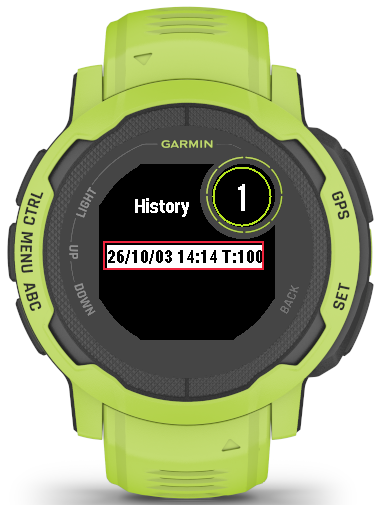
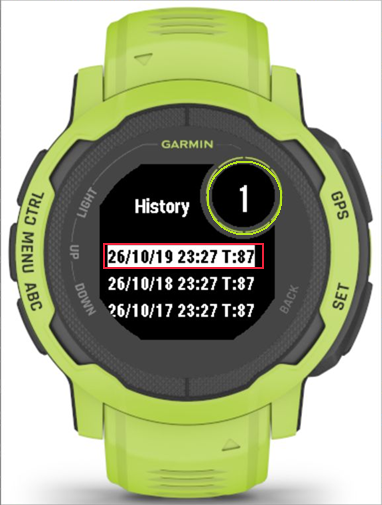
Update Sauna Timer 0.6.2 guide and clarify FIT Save defaults

diff --git a/sauna-timer/index.html b/sauna-timer/index.html
@@ -77,8 +77,12 @@
                 <dd>セッション終了時に、完了したすべてのセットのスコアをまとめて確認できます。</dd>
               </div>
               <div>
-                <dt><span translate="no">Garmin Connect</span>へのログ送信</dt>
-                <dd><span translate="no">FIT Save</span>をONにすると、計測したログを<span translate="no">Garmin Connect</span>へ送信できます。</dd>
+                <dt>履歴からセットの詳細を確認</dt>
+                <dd><span translate="no">v0.6.2</span>では、保存した履歴から各セットのスコアと、サウナ・水風呂・休憩の最大／最小心拍数を確認できます。<br>操作方法は「<a href="#history" translate="no">History</a>」をご覧ください。</dd>
+              </div>
+              <div>
+                <dt>アプリ内に履歴を保存</dt>
+                <dd>セッション終了時に記録を保存し、過去10件の履歴をウォッチ上で確認できます。</dd>
               </div>
             </dl>
 
@@ -143,7 +147,7 @@
           <section class="content-section" id="how-to-use">
             <h2>使い方</h2>
             <p><span translate="no">Garmin</span>ウォッチの物理ボタンを使って操作します。<br>はじめにボタンの呼び方を確認し、その後、各画面の説明に沿って操作してください。</p>
-            <p class="guide-note">画像は<span translate="no">Sauna Timer 0.6.1</span>を<span translate="no">Instinct 2</span>のシミュレーターで撮影したものです。<br>色付きの枠は説明用に追加しています。<br>心拍数、スコア、日時はサンプルです。<br>各画像の下に、色付きラベルで枠の意味を記載しています。</p>
+            <p class="guide-note">History・セット終了時・セット別Resultの画像は<span translate="no">Sauna Timer 0.6.2</span>、その他の画像は<span translate="no">Sauna Timer 0.6.1</span>を<span translate="no">Instinct 2</span>のシミュレーターで撮影したものです。<br>色付きの枠は説明用に追加しています。<br>心拍数、スコア、日時はサンプルです。<br>各画像の下に、色付きラベルで枠の意味を記載しています。</p>
 
             <nav class="guide-index" aria-label="使い方の目次">
               <a href="#buttons">ボタン</a>
@@ -530,7 +534,7 @@
                     </div>
                     <div>
                       <dt translate="no">FIT Save</dt>
-                      <dd>セッションを<span translate="no">FIT</span>形式のアクティビティとして保存します。初期状態はOFFです。</dd>
+                      <dd>セッションを<span translate="no">FIT</span>形式のアクティビティとして保存します。初期値はOFFです。<br>保存する場合は、セッション開始前にONへ変更してください。</dd>
                       <dd class="guide-note">
                         <p><span translate="no">FIT Save</span>は、タイマーを開始する前にだけ変更できます。<br>タイマーを開始した後は設定を変更できません。</p>
                       </dd>
@@ -542,7 +546,8 @@
 
             <section class="guide-section" id="history">
               <h3 translate="no">History</h3>
-              <div class="guide-images guide-images-three">
+              <p class="guide-note">操作説明と画像は<span translate="no">v0.6.2</span>の内容です。<br>心拍数、スコア、日時は撮影用のサンプルです。</p>
+              <div class="guide-images guide-images-two">
                 <div class="sauna-timer-screen-media">
                   <figure class="screen-figure">
                     <img src="../assets/images/History.png" alt="保存済みセッションを表示したHistory一覧画面" width="382" height="505" loading="lazy">
@@ -551,31 +556,56 @@
                   <h4>画面に表示される情報</h4>
                   <ul class="display-legend">
                     <li><span class="sauna-timer-guide-label sauna-timer-guide-label-red">赤枠</span>選択中の履歴</li>
-                    <li><span class="sauna-timer-guide-label sauna-timer-guide-label-lime">黄緑の丸</span>保存件数</li>
+                    <li><span class="sauna-timer-guide-label sauna-timer-guide-label-lime">黄緑の丸</span>選択中の履歴番号</li>
                   </ul>
                 </div>
                 <div class="sauna-timer-screen-media">
                   <figure class="screen-figure">
-                    <img src="../assets/images/history1.png" alt="開始日時、TotonoiScore、セット数を表示した履歴詳細画面" width="382" height="505" loading="lazy">
-                    <figcaption>History詳細</figcaption>
+                    <img src="../assets/images/history1.png" alt="全体のスコアとフェーズ別の最大・最小心拍数の平均を表示した履歴概要画面" width="382" height="505" loading="lazy">
+                    <figcaption>History概要</figcaption>
                   </figure>
                   <h4>画面に表示される情報</h4>
                   <ul class="display-legend">
                     <li><span class="sauna-timer-guide-label sauna-timer-guide-label-blue">青枠</span>開始日時</li>
-                    <li><span class="sauna-timer-guide-label sauna-timer-guide-label-red">赤枠</span>スコア</li>
-                    <li><span class="sauna-timer-guide-label sauna-timer-guide-label-green">緑枠</span>セット数</li>
+                    <li><span class="sauna-timer-guide-label sauna-timer-guide-label-red">赤枠</span>全体のスコア</li>
+                    <li><span class="sauna-timer-guide-label sauna-timer-guide-label-green">緑枠</span>各フェーズの最大心拍数の平均／最小心拍数の平均</li>
+                    <li><span class="sauna-timer-guide-label sauna-timer-guide-label-yellow">黄色枠</span>セット数とページ番号</li>
+                  </ul>
+                </div>
+                <div class="sauna-timer-screen-media">
+                  <figure class="screen-figure">
+                    <img src="../assets/images/HistoryScore.png" alt="セット1のスコアとEnter to Detailを表示した画面" width="382" height="505" loading="lazy">
+                    <figcaption>セット別スコア</figcaption>
+                  </figure>
+                  <h4>画面に表示される情報</h4>
+                  <ul class="display-legend">
+                    <li><span class="sauna-timer-guide-label sauna-timer-guide-label-lime">黄緑の丸</span>セット番号</li>
+                    <li><span class="sauna-timer-guide-label sauna-timer-guide-label-red">赤枠</span>セットのスコア</li>
+                    <li><span class="sauna-timer-guide-label sauna-timer-guide-label-blue">青枠</span>詳細を開く操作案内</li>
                     <li><span class="sauna-timer-guide-label sauna-timer-guide-label-yellow">黄色枠</span>ページ番号</li>
                   </ul>
                 </div>
                 <div class="sauna-timer-screen-media">
                   <figure class="screen-figure">
-                    <img src="../assets/images/hisotry2.png" alt="フェーズごとの平均心拍数を表示した履歴詳細画面" width="382" height="505" loading="lazy">
-                    <figcaption>平均心拍数</figcaption>
+                    <img src="../assets/images/HistorySetDetail.png" alt="セット1のスコアと各フェーズの最大・最小心拍数を表示した履歴のセット詳細画面" width="382" height="505" loading="lazy">
+                    <figcaption>セット詳細</figcaption>
                   </figure>
                   <h4>画面に表示される情報</h4>
                   <ul class="display-legend">
-                    <li><span class="sauna-timer-guide-label sauna-timer-guide-label-green">緑枠</span>各フェーズの平均心拍数</li>
-                    <li><span class="sauna-timer-guide-label sauna-timer-guide-label-yellow">黄色枠</span>ページ番号</li>
+                    <li><span class="sauna-timer-guide-label sauna-timer-guide-label-blue">青枠</span>セット番号</li>
+                    <li><span class="sauna-timer-guide-label sauna-timer-guide-label-red">赤枠</span>セットのスコア</li>
+                    <li><span class="sauna-timer-guide-label sauna-timer-guide-label-green">緑枠</span>各フェーズの最大／最小心拍数</li>
+                    <li><span class="sauna-timer-guide-label sauna-timer-guide-label-yellow">黄色枠</span>前のスコアページへ戻る案内</li>
+                  </ul>
+                </div>
+                <div class="sauna-timer-screen-media">
+                  <figure class="screen-figure">
+                    <img src="../assets/images/HistoryNoDetails.png" alt="詳細データがない場合にNo detailsと表示される画面" width="382" height="505" loading="lazy">
+                    <figcaption>詳細データがない場合</figcaption>
+                  </figure>
+                  <h4>画面に表示される情報</h4>
+                  <ul class="display-legend">
+                    <li><span class="sauna-timer-guide-label sauna-timer-guide-label-red">赤枠</span>詳細データがないことを示す表示</li>
                   </ul>
                 </div>
               </div>
@@ -583,10 +613,19 @@
               <p><span translate="no">FIT Save</span>がOFFでも、アプリ内の履歴は保存されます。<br>ただし、<span translate="no">Garmin Connect</span>には送信されません。</p>
               <ul class="operation-list">
                 <li><kbd>UP</kbd>／<kbd>DOWN</kbd> 履歴や詳細ページを移動します。</li>
-                <li><kbd>ENTER</kbd> 選択した履歴の詳細を開きます。<br>詳細画面では履歴の削除確認を開きます。</li>
+                <li><kbd>ENTER</kbd> 一覧では選択した履歴を開きます。<br>セット別のスコアページでは、そのセットの詳細を開きます。概要ページでは履歴の削除確認を開きます。</li>
                 <li><kbd>BACK</kbd> 前の画面へ戻ります。</li>
               </ul>
-              <p>履歴の詳細では、開始日時、全体の<span translate="no">TotonoiScore</span>、セット数、サウナ・水風呂・休憩の平均心拍数、各セットの<span translate="no">TotonoiScore</span>を確認できます。</p>
+              <h4>概要画面の見方</h4>
+              <p>最初のページには、開始日時、全体の<span translate="no">TotonoiScore</span>、セット数と、各フェーズの最大心拍数の平均／最小心拍数の平均が表示されます。<br>全体のスコアは右上の丸い領域、セット数とページ番号は画面下部に表示されます。</p>
+              <p>たとえば「<span translate="no">Sauna 138/111</span>」は、各セットのサウナ中の最大心拍数を平均した値が138、最小心拍数を平均した値が111という意味です（単位：bpm）。</p>
+              <h4>セットごとの詳細を開く</h4>
+              <ol class="operation-list">
+                <li><kbd>UP</kbd>／<kbd>DOWN</kbd>で、確認したいセットのスコアページへ移動します。<br>最終ページからさらに進むと、概要ページに戻ります。</li>
+                <li>「<span translate="no">Enter to Detail</span>」が表示されたページで<kbd>ENTER</kbd>を押します。<br>セット番号、スコア、サウナ・水風呂・休憩の最大／最小心拍数を確認できます。</li>
+                <li><kbd>ENTER</kbd>または<kbd>BACK</kbd>で、元のスコアページに戻ります。</li>
+              </ol>
+              <p class="guide-note">セットの詳細は、対応版で新しく保存したセッションから確認できます。<br>旧バージョンの履歴など、詳細データがない場合は「<span translate="no">No details</span>」と表示されます。取得できない心拍数は「<span translate="no">---</span>」と表示され、概要画面の平均計算から除かれます。</p>
             </section>
 
             <section class="guide-section" id="exit-menu">
@@ -622,7 +661,7 @@
                   </dl>
                   <div class="guide-note">
                     <p><span translate="no">RESULT</span>画面では<kbd>UP</kbd>／<kbd>DOWN</kbd>でページを切り替え、<kbd>BACK</kbd>で終了確認画面に戻れます。</p>
-                    <p>サウナのタイマーを60秒以上動かし、休憩まで進んだセットが1つもない場合は、<span translate="no">FIT</span>ファイルとアプリ内の履歴を保存しません。</p>
+                    <p>サウナのタイマーを60秒以上動かし、休憩まで進んだセットが1つもない場合は、<span translate="no">FIT</span>ファイルとアプリ内の履歴を保存しません。<br><span translate="no">FIT</span>ファイルの保存には、<span translate="no">FIT Save</span>をONにする必要があります。</p>
                     <p>フェーズ終了後、またはタイマー停止後の待機状態が10分間続くと、アプリは自動で終了します。<br>自動終了した場合は、アプリ内の履歴を保存しません。</p>
                   </div>
                 </div>
@@ -640,6 +679,30 @@
             <p class="changelog-description">このページの更新内容と、アプリの主な変更を掲載しています。</p>
             <!-- 更新時は日付と変更内容を先頭に追加します。 -->
             <dl class="changelog-list">
+              <div>
+                <dt><time datetime="2026-10-19">2026年10月19日</time></dt>
+                <dd>
+                  <strong translate="no">Sauna Timer v0.6.2リリース</strong>
+                  <ul class="operation-list">
+                    <li>履歴からセットごとの詳細を確認できるように改善しました。</li>
+                    <li>動作の安定性を改善しました。</li>
+                    <li>画面レイアウトを調整しました。</li>
+                  </ul>
+                  <p>正式版に合わせて操作説明とスクリーンショットを更新しました。FIT Saveを利用でき、初期値がOFFであることを明記し、Enter to Detailを囲む青枠の位置を調整しました。</p>
+                </dd>
+              </div>
+              <div>
+                <dt><time datetime="2026-10-18">2026年10月18日</time></dt>
+                <dd>
+                  <strong translate="no">Sauna Timer v0.6.2.b2（ベータ版）</strong>
+                  <ul class="operation-list">
+                    <li>Historyから、各セットのスコアとフェーズ別の最大／最小心拍数を確認できるようになりました。</li>
+                    <li>概要画面に、各フェーズの最大心拍数の平均／最小心拍数の平均をまとめて表示するようになりました。</li>
+                    <li>小型画面などでの表示配置を改善し、メモリ使用量を削減しました。</li>
+                    <li>追加機能に合わせて、履歴のスクリーンショット、見方と操作説明を更新しました。</li>
+                  </ul>
+                </dd>
+              </div>
               <div>
                 <dt><time datetime="2026-10-09">2026年10月9日</time></dt>
                 <dd>英語版を追加しました。<br>更新履歴を追加しました。</dd>

diff --git a/en/sauna-timer/index.html b/en/sauna-timer/index.html
@@ -77,8 +77,12 @@
                 <dd>At the end of a session, you can review the scores for all completed sets together.</dd>
               </div>
               <div>
-                <dt>Send logs to <span translate="no">Garmin Connect</span></dt>
-                <dd>Turn on <span translate="no">FIT Save</span> to send your recorded logs to <span translate="no">Garmin Connect</span>.</dd>
+                <dt>Review set details from history</dt>
+                <dd>In <span translate="no">v0.6.2</span>, saved history lets you review each set's score and maximum/minimum heart rates for sauna, cold bath, and rest.<br>See <a href="#history" translate="no">History</a> for instructions.</dd>
+              </div>
+              <div>
+                <dt>Saved history on your watch</dt>
+                <dd>Save a completed session and review your ten most recent sessions on your watch.</dd>
               </div>
             </dl>
 
@@ -143,7 +147,7 @@
           <section class="content-section" id="how-to-use">
             <h2>User guide</h2>
             <p>Use the physical buttons on your <span translate="no">Garmin</span> watch.<br>Check the button names first, then follow the instructions for each screen.</p>
-            <p class="guide-note">These screenshots show <span translate="no">Sauna Timer 0.6.1</span> in the <span translate="no">Instinct 2</span> simulator.<br>The colored frames mark the areas described in this guide.<br>Heart rate readings, scores, dates, and times are sample data.<br>The labels below each image explain what the frames highlight.</p>
+            <p class="guide-note">History, set completion, and per-set Result screenshots show <span translate="no">Sauna Timer 0.6.2</span>; other screenshots show <span translate="no">Sauna Timer 0.6.1</span>. All were captured in the <span translate="no">Instinct 2</span> simulator.<br>The colored frames mark the areas described in this guide.<br>Heart rate readings, scores, dates, and times are sample data.<br>The labels below each image explain what the frames highlight.</p>
 
             <nav class="guide-index" aria-label="User guide contents">
               <a href="#buttons">Buttons</a>
@@ -530,7 +534,7 @@
                     </div>
                     <div>
                       <dt translate="no">FIT Save</dt>
-                      <dd>Saves the session as an activity in <span translate="no">FIT</span> format. This setting is off by default.</dd>
+                      <dd>Saves the session as an activity in <span translate="no">FIT</span> format. This setting is off by default. Turn it on before starting a session to record a FIT activity.</dd>
                       <dd class="guide-note">
                         <p>You can change <span translate="no">FIT Save</span> only before starting the timer.<br>Once the timer has started, this setting cannot be changed.</p>
                       </dd>
@@ -542,40 +546,66 @@
 
             <section class="guide-section" id="history">
               <h3 translate="no">History</h3>
-              <div class="guide-images guide-images-three">
+              <p class="guide-note">The instructions and screenshots show <span translate="no">v0.6.2</span>.<br>Heart rates, scores, dates, and times are sample data prepared for these screenshots.</p>
+              <div class="guide-images guide-images-two">
                 <div class="sauna-timer-screen-media">
                   <figure class="screen-figure">
                     <img src="../../assets/images/History.png" alt="History list showing saved sessions" width="382" height="505" loading="lazy">
                     <figcaption>History list</figcaption>
                   </figure>
-                  <h4>On-screen information</h4>
+                  <h4>Information on the screen</h4>
                   <ul class="display-legend">
-                    <li><span class="sauna-timer-guide-label sauna-timer-guide-label-red">Red frame</span>Selected session</li>
-                    <li><span class="sauna-timer-guide-label sauna-timer-guide-label-lime">Lime circle</span>Number of saved sessions</li>
+                    <li><span class="sauna-timer-guide-label sauna-timer-guide-label-red">Red frame</span> Selected session</li>
+                    <li><span class="sauna-timer-guide-label sauna-timer-guide-label-lime">Lime circle</span> Selected session number</li>
                   </ul>
                 </div>
                 <div class="sauna-timer-screen-media">
                   <figure class="screen-figure">
-                    <img src="../../assets/images/history1.png" alt="History details showing start date and time, TotonoiScore, and set count" width="382" height="505" loading="lazy">
-                    <figcaption>History details</figcaption>
+                    <img src="../../assets/images/history1.png" alt="History summary showing the overall score and average maximum/minimum heart rates for each phase" width="382" height="505" loading="lazy">
+                    <figcaption>History summary</figcaption>
                   </figure>
-                  <h4>On-screen information</h4>
+                  <h4>Information on the screen</h4>
                   <ul class="display-legend">
-                    <li><span class="sauna-timer-guide-label sauna-timer-guide-label-blue">Blue frame</span>Start date and time</li>
-                    <li><span class="sauna-timer-guide-label sauna-timer-guide-label-red">Red frame</span>Score</li>
-                    <li><span class="sauna-timer-guide-label sauna-timer-guide-label-green">Green frame</span>Set count</li>
-                    <li><span class="sauna-timer-guide-label sauna-timer-guide-label-yellow">Yellow frame</span>Page number</li>
+                    <li><span class="sauna-timer-guide-label sauna-timer-guide-label-blue">Blue frame</span> Start date and time</li>
+                    <li><span class="sauna-timer-guide-label sauna-timer-guide-label-red">Red frame</span> Overall score</li>
+                    <li><span class="sauna-timer-guide-label sauna-timer-guide-label-green">Green frame</span> Average maximum / average minimum heart rate for each phase</li>
+                    <li><span class="sauna-timer-guide-label sauna-timer-guide-label-yellow">Yellow frame</span> Set count and page number</li>
                   </ul>
                 </div>
                 <div class="sauna-timer-screen-media">
                   <figure class="screen-figure">
-                    <img src="../../assets/images/hisotry2.png" alt="History details showing average heart rate for each phase" width="382" height="505" loading="lazy">
-                    <figcaption>Average heart rate</figcaption>
+                    <img src="../../assets/images/HistoryScore.png" alt="Set 1 score page with Enter to Detail" width="382" height="505" loading="lazy">
+                    <figcaption>Set score</figcaption>
                   </figure>
-                  <h4>On-screen information</h4>
+                  <h4>Information on the screen</h4>
                   <ul class="display-legend">
-                    <li><span class="sauna-timer-guide-label sauna-timer-guide-label-green">Green frame</span>Average heart rate for each phase</li>
-                    <li><span class="sauna-timer-guide-label sauna-timer-guide-label-yellow">Yellow frame</span>Page number</li>
+                    <li><span class="sauna-timer-guide-label sauna-timer-guide-label-lime">Lime circle</span> Set number</li>
+                    <li><span class="sauna-timer-guide-label sauna-timer-guide-label-red">Red frame</span> Set score</li>
+                    <li><span class="sauna-timer-guide-label sauna-timer-guide-label-blue">Blue frame</span> Hint for opening details</li>
+                    <li><span class="sauna-timer-guide-label sauna-timer-guide-label-yellow">Yellow frame</span> Page number</li>
+                  </ul>
+                </div>
+                <div class="sauna-timer-screen-media">
+                  <figure class="screen-figure">
+                    <img src="../../assets/images/HistorySetDetail.png" alt="History set details showing the score and maximum/minimum heart rates for each phase" width="382" height="505" loading="lazy">
+                    <figcaption>Set details</figcaption>
+                  </figure>
+                  <h4>Information on the screen</h4>
+                  <ul class="display-legend">
+                    <li><span class="sauna-timer-guide-label sauna-timer-guide-label-blue">Blue frame</span> Set number</li>
+                    <li><span class="sauna-timer-guide-label sauna-timer-guide-label-red">Red frame</span> Set score</li>
+                    <li><span class="sauna-timer-guide-label sauna-timer-guide-label-green">Green frame</span> Maximum/minimum heart rate for each phase</li>
+                    <li><span class="sauna-timer-guide-label sauna-timer-guide-label-yellow">Yellow frame</span> Hint for returning to the score page</li>
+                  </ul>
+                </div>
+                <div class="sauna-timer-screen-media">
+                  <figure class="screen-figure">
+                    <img src="../../assets/images/HistoryNoDetails.png" alt="No details message when a saved set has no detail data" width="382" height="505" loading="lazy">
+                    <figcaption>When details are unavailable</figcaption>
+                  </figure>
+                  <h4>Information on the screen</h4>
+                  <ul class="display-legend">
+                    <li><span class="sauna-timer-guide-label sauna-timer-guide-label-red">Red frame</span> Message indicating that detail data is unavailable</li>
                   </ul>
                 </div>
               </div>
@@ -583,10 +613,19 @@
               <p>In-app history is saved even when <span translate="no">FIT Save</span> is off.<br>However, it is not sent to <span translate="no">Garmin Connect</span>.</p>
               <ul class="operation-list">
                 <li><kbd>UP</kbd> / <kbd>DOWN</kbd> Move between history entries or detail pages.</li>
-                <li><kbd>ENTER</kbd> Open the selected session's details.<br>On the detail screen, press it again to open the deletion confirmation.</li>
+                <li><kbd>ENTER</kbd> In the list, open the selected session.<br>On a set score page, open that set's details. On the summary page, open the deletion confirmation.</li>
                 <li><kbd>BACK</kbd> Return to the previous screen.</li>
               </ul>
-              <p>History details show the start date and time, overall <span translate="no">TotonoiScore</span>, set count, average heart rates for sauna, cold bath, and rest, and each set's <span translate="no">TotonoiScore</span>.</p>
+              <h4>Reading the summary</h4>
+              <p>The first page shows the start date and time, overall <span translate="no">TotonoiScore</span>, set count, and the average maximum / average minimum heart rate for each phase.<br>The overall score appears in the circle at the top right. The set count and page number appear at the bottom.</p>
+              <p>For example, <span translate="no">Sauna 138/111</span> means the maximum sauna heart rates across sets average 138 bpm, and the minimum sauna heart rates average 111 bpm.</p>
+              <h4>Opening a set's details</h4>
+              <ol class="operation-list">
+                <li>Use <kbd>UP</kbd> / <kbd>DOWN</kbd> to find the set's score page.<br>Moving forward from the last page returns to the summary.</li>
+                <li>Press <kbd>ENTER</kbd> on a page showing <span translate="no">Enter to Detail</span>.<br>You can review the set number, score, and maximum/minimum heart rates for sauna, cold bath, and rest.</li>
+                <li>Press <kbd>ENTER</kbd> or <kbd>BACK</kbd> to return to the same score page.</li>
+              </ol>
+              <p class="guide-note">Set details are available for sessions newly saved with a version that supports them.<br>If detail data is unavailable, such as for history saved with an older version, <span translate="no">No details</span> appears. Missing heart rate values appear as <span translate="no">---</span> and are excluded from the summary averages.</p>
             </section>
 
             <section class="guide-section" id="exit-menu">
@@ -622,7 +661,7 @@
                   </dl>
                   <div class="guide-note">
                     <p>On the <span translate="no">RESULT</span> screen, use <kbd>UP</kbd> / <kbd>DOWN</kbd> to switch pages, and <kbd>BACK</kbd> to return to exit confirmation.</p>
-              <p>The app saves a <span translate="no">FIT</span> file and in-app history only if at least one set reached the rest phase after the sauna timer ran for 60 seconds or more.</p>
+                    <p>FIT files and in-app history are saved only if at least one set reached the rest phase after the sauna timer ran for 60 seconds or more. FIT files also require <span translate="no">FIT Save</span> to be on.</p>
                     <p>If the app waits for 10 minutes after a phase ends or the timer is paused, it exits automatically.<br>When this happens, the session is not saved to the in-app history.</p>
                   </div>
                 </div>
@@ -640,6 +679,30 @@
             <p class="changelog-description">Updates to this page and major changes to the app.</p>
 
             <dl class="changelog-list">
+              <div>
+                <dt><time datetime="2026-10-19">October 19, 2026</time></dt>
+                <dd>
+                  <strong translate="no">Sauna Timer v0.6.2 released</strong>
+                  <ul class="operation-list">
+                    <li>Improved access to per-set details from history.</li>
+                    <li>Improved app stability.</li>
+                    <li>Adjusted screen layouts.</li>
+                  </ul>
+                  <p>Updated the guide and screenshots for the release. Clarified that FIT Save is available and off by default, and adjusted the blue frame around Enter to Detail.</p>
+                </dd>
+              </div>
+              <div>
+                <dt><time datetime="2026-10-18">October 18, 2026</time></dt>
+                <dd>
+                  <strong translate="no">Sauna Timer v0.6.2.b2 (beta)</strong>
+                  <ul class="operation-list">
+                    <li>History now lets you review each set's score and maximum/minimum heart rates for each phase.</li>
+                    <li>The summary now combines the average maximum and average minimum heart rates for each phase on one page.</li>
+                    <li>Improved layouts, including those on smaller screens, and reduced memory usage.</li>
+                    <li>Updated the history screenshots, guide, and controls to cover the added features.</li>
+                  </ul>
+                </dd>
+              </div>
               <div>
                 <dt><time datetime="2026-10-09">October 9, 2026</time></dt>
                 <dd>Added an English version.<br>Added a changelog.</dd>

diff --git a/assets/images/sauna-timer/raw/README.md b/assets/images/sauna-timer/raw/README.md
@@ -1,17 +1,29 @@
 # Sauna Timer screenshot sources
 
-- Captured on 2026-10-03 from Sauna Timer 0.6.1 (`Sauna-Timer/bin/SaunaTimer.prg`).
+- History captures (`History`, `history1`, `HistoryScore`, `HistorySetDetail`, `HistoryNoDetails`), set completion (`Result_set`), per-set Result (`Result`) were captured on 2026-10-19 from the unmodified Sauna Timer 0.6.2 product rendering classes.
+- Other captures, including Setting and the unchanged overall score page (`Result_all`), remain from Sauna Timer 0.6.1, captured on 2026-10-03 (`Sauna-Timer/bin/SaunaTimer.prg`).
 - Device: Garmin Connect IQ Simulator, Instinct 2 / Solar / Dual Power / dezl Edition.
 - Captures contain the simulator's watch panel only, at 382 x 505 pixels.
 - Heart rate, scores, dates and times are screenshot sample data. FIT Save remained OFF.
-- Heart-rate examples were recaptured with a temporary copy of the app that replaces only the sensor data in `refreshHeartRate()`: Sauna 100–135, WB 75–100, Rest 62–85 bpm, cycling once per second. Scores and history averages are calculated by the unchanged app code from these samples. The fixture uses a separate application ID to isolate its history. Production watch sources were not edited.
+- For the 0.6.1 captures, heart-rate examples were recaptured with a temporary copy of the app that replaces only the sensor data in `refreshHeartRate()`: Sauna 100–135, WB 75–100, Rest 62–85 bpm, cycling once per second. Scores and history averages are calculated by the unchanged app code from these samples. The fixture uses a separate application ID to isolate its history. Production watch sources were not edited.
 - These PNGs are unannotated originals. `tools/annotate-sauna-screens.ps1` draws explanatory outlines and writes the corresponding PNGs to `assets/images/`.
 - `Buttons.png` uses the unannotated `TOP.png` capture with colored circles identifying ENTER (red), BACK (blue), UP (purple), and DOWN (orange).
-- `SettingFIT.png` shows FIT Save selected before starting a session. The settings and main menus cycle the selected item to the first row.
-- The existing `hisotry2.png` filename is preserved to keep asset links compatible.
+- `SettingFIT.png` shows FIT Save OFF, the default setting. FIT Save remains available in 0.6.2; users can enable it before starting a session. The settings and main menus cycle the selected item to the first row.
+- The old `hisotry2.png` is retained for compatibility; the current History guide uses the combined summary and new set detail screens.
+- The 0.6.2 screenshot fixture uses a separate application ID. Scores and heart rates are explicit sample values, not measured data. Phase maximum/minimum averages are calculated by the product code from those saved samples. The `No details` frame uses a summary-only entry and the actual ENTER handler.
+- The 2026-10-19 images were captured through the Computer Use screenshot API, cropped to the watch panel at (1, 78, 576, 759) in the 578px-wide simulator window, and resized to 382 x 505. Screens advanced automatically in the screenshot fixture. Earlier captures used a crop of (8, 52, 382, 505).
 
 Regenerate the annotated images from the repository root:
 
 ```powershell
 ./tools/annotate-sauna-screens.ps1
 ```
+
+Recapture only the five History screens from the current app sources, then regenerate their annotations:
+
+```powershell
+./tools/capture-sauna-screens.ps1 -AppRoot D:/develop/Sauna-Timer
+./tools/annotate-sauna-screens.ps1 -HistoryOnly
+```
+
+Requires the configured Connect IQ SDK, Java, Python 3, and an already open Instinct 2 simulator. The app's developer key is used only for the local fixture build. Build output goes to the system temporary folder.
